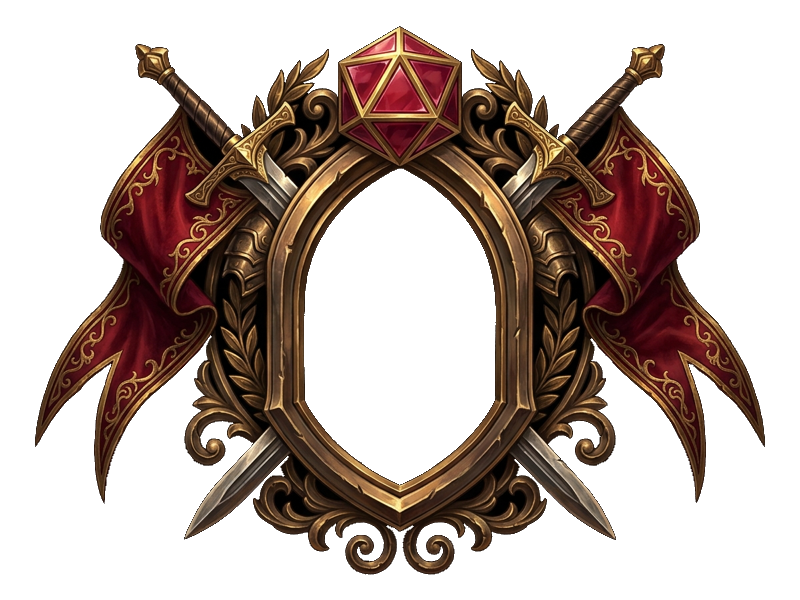
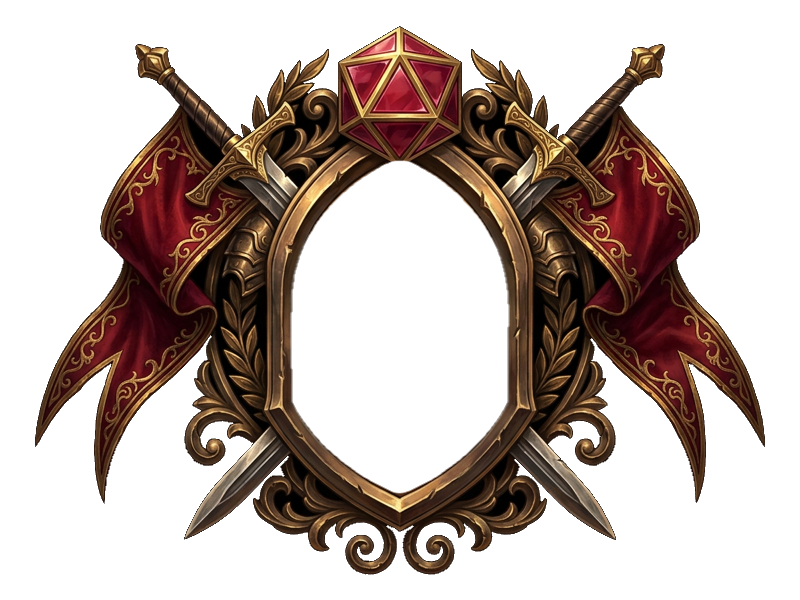
Widen victory/defeat portrait window with radiant win shine and gentle defeat fade

Changed region(s): [[0.3438, 0.27, 0.6562, 0.84]]

diff --git a/retro.css b/retro.css
@@ -4955,7 +4955,7 @@ body.cb .tut-task { color: #e0f2fe; background: rgba(2, 132, 199, 0.24); border-
 }
 .hs-crest-stage {
   position: relative;
-  width: min(92vw, 430px);
+  width: min(94vw, 470px);
   aspect-ratio: 4 / 3;
   margin: 0 auto 2px;
   display: flex;
@@ -4976,24 +4976,37 @@ body.cb .tut-task { color: #e0f2fe; background: rgba(2, 132, 199, 0.24); border-
   position: absolute;
   z-index: 1;
   left: 50%;
-  top: 25%;
+  top: 24%;
   transform: translateX(-50%);
-  width: 31%;
+  width: 34%;
   height: 59%;
   border-radius: 50% 50% 46% 46% / 42% 42% 52% 52%;
   border: none;
-  background: #0d0a0c;
+  background: radial-gradient(circle at 50% 35%, #2b221a, #14100d 80%);
   box-shadow: none;
   overflow: hidden;
 }
+.end-screen.win .hs-arch-frame::after {
+  content: "";
+  position: absolute;
+  inset: 0;
+  border-radius: inherit;
+  background: radial-gradient(circle at 50% 24%, rgba(254, 240, 170, 0.24), transparent 62%);
+  box-shadow: inset 0 0 22px rgba(253, 224, 130, 0.42);
+  pointer-events: none;
+}
+.end-screen.win .hs-arch-frame img {
+  object-position: center 20%;
+  filter: brightness(1.18) contrast(1.06) saturate(1.12);
+}
 .end-screen.lose .hs-arch-frame {
-  top: 29%;
-  width: 32%;
-  height: 55%;
+  top: 28%;
+  width: 34%;
+  height: 56%;
 }
 .end-screen.lose .hs-arch-frame img {
-  object-position: center 22%;
-  filter: brightness(1.08) contrast(1.05);
+  object-position: center 20%;
+  filter: brightness(1.08) saturate(0.72) contrast(1.03);
 }
 .nd-halo-spin {
   transform-origin: 210px 154px;
@@ -5025,10 +5038,10 @@ body.cb .tut-task { color: #e0f2fe; background: rgba(2, 132, 199, 0.24); border-
   position: absolute;
   z-index: 4;
   left: 50%;
-  bottom: 4%;
+  bottom: 0%;
   transform: translateX(-50%);
-  min-width: 60%;
-  padding: 10px 28px 9px;
+  min-width: 58%;
+  padding: 8px 26px 7px;
   border-radius: 4px;
   clip-path: polygon(10px 0%, calc(100% - 10px) 0%, 100% 50%, calc(100% - 10px) 100%, 10px 100%, 0% 50%);
   border-top: 2.5px solid #e6be6c;
@@ -5040,7 +5053,7 @@ body.cb .tut-task { color: #e0f2fe; background: rgba(2, 132, 199, 0.24); border-
   animation: hsPlaquePop 0.55s 0.14s cubic-bezier(0.2, 1.25, 0.3, 1) both;
 }
 .end-screen.lose .hs-wood-plaque {
-  bottom: 1%;
+  bottom: 0%;
   border-top-color: #9ca3af;
   border-bottom-color: #52525b;
   background: linear-gradient(180deg, #26262b 0%, #111114 100%);
@@ -5071,7 +5084,7 @@ body.cb .tut-task { color: #e0f2fe; background: rgba(2, 132, 199, 0.24); border-
 }
 @media (max-width: 760px) {
   .hs-crest-stage {
-    width: min(88vw, 340px);
+    width: min(92vw, 370px);
   }
   .hs-end-stats {
     grid-template-columns: repeat(2, minmax(0, 1fr)) !important;

diff --git a/index.html b/index.html
@@ -33,7 +33,7 @@
 <link href="https://fonts.googleapis.com/css2?family=Crimson+Pro:wght@500;600;700;800&text=0123456789&display=swap" rel="stylesheet">
 <link href="https://fonts.googleapis.com/css2?family=Lora:wght@700&text=%3F%2B&display=swap" rel="stylesheet">
 <link rel="stylesheet" href="style.css?v=20261121_perf">
-<link rel="stylesheet" href="retro.css?v=20261122_glog1">
+<link rel="stylesheet" href="retro.css?v=20261122_crest_glow">
 </head>
 <body>
 <div id="splash"><img id="slogo" alt=""><b>limbigames</b></div>
@@ -86,6 +86,6 @@
 <script src="audio_data.js?v=20261114_tavern1"></script>
 <script src="hd.js?v=20261115_hs11"></script>
 <script src="d20_canvas.js?v=20261121_lnum"></script>
-<script src="game.js?v=20261122_glog1"></script>
+<script src="game.js?v=20261122_crest_glow"></script>
 </body>
 </html>

diff --git a/game.js b/game.js
@@ -2655,7 +2655,7 @@ function buildEndScreenHtml(S,v,L,roll,th){
   const sec=Math.max(1,Math.round((Date.now()-(st.startAt||Date.now()))/1000));
   const durTxt=`${String(Math.floor(sec/60)).padStart(2,'0')}:${String(sec%60).padStart(2,'0')}`;
   const titleTxt=isSpec?tr('Maç Bitti!','Match Over!'):(won?tr('Zafer!','Victory!'):tr('Mağlubiyet!','Defeat!'));
-  const crestImgSrc=(won||isSpec)?'end_win_crest.png?v=20261122_crest1':'end_lose_crest.png?v=20261122_crest2';
+  const crestImgSrc=(won||isSpec)?'end_win_crest.png?v=20261122_crest2':'end_lose_crest.png?v=20261122_crest2';
   const eloRes=(!isSpec&&v===0&&MODE!=='tutorial'&&typeof recordMatchElo==='function')?recordMatchElo(S,won):null;
   const eloHtml=eloRes?(eloRes.unranked
     ?`<div class="end-elo-bar unranked">

diff --git a/sw.js b/sw.js
@@ -1,4 +1,4 @@
-const C='nd-v225-game-log';
+const C='nd-v226-crest-portrait-polish';
 self.addEventListener('install',e=>{e.waitUntil(caches.open(C).then(c=>c.addAll(['./','index.html','style.css','retro.css','game.js','images.js','manifest.json']).catch(()=>{})));self.skipWaiting()});
 self.addEventListener('activate',e=>e.waitUntil(caches.keys().then(k=>Promise.all(k.filter(x=>x!=C).map(x=>caches.delete(x)))).then(()=>self.clients.claim())));
 self.addEventListener('fetch',e=>{
